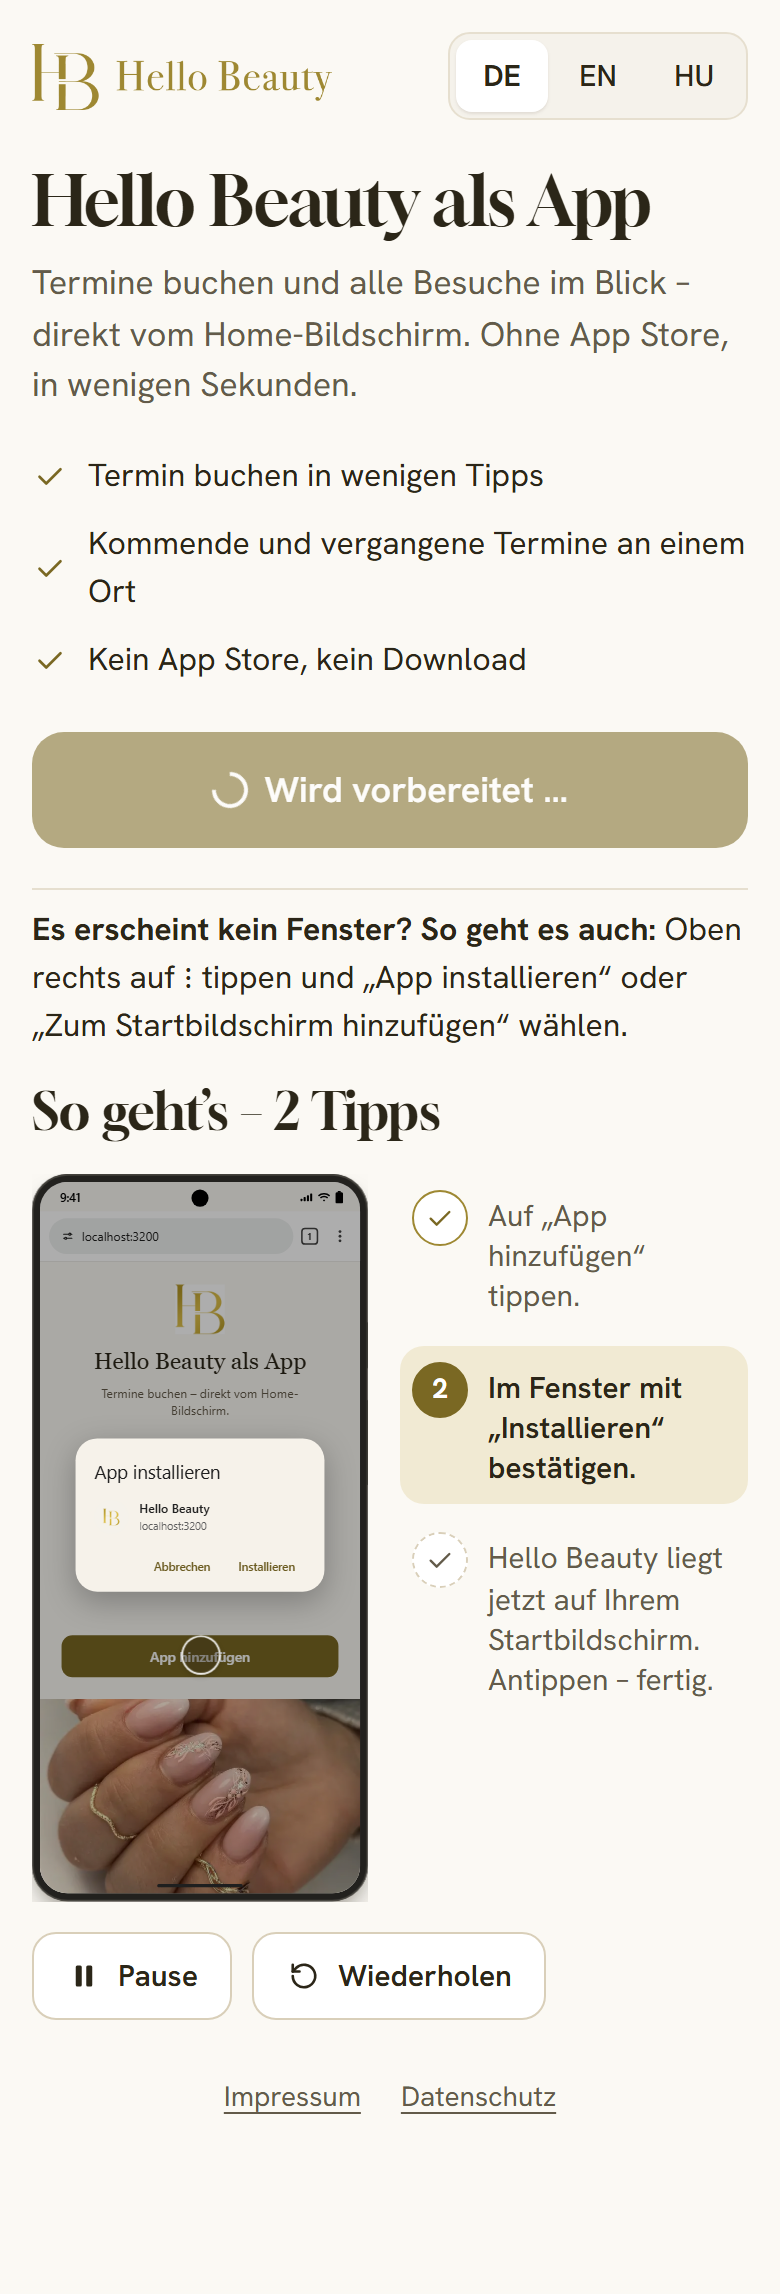
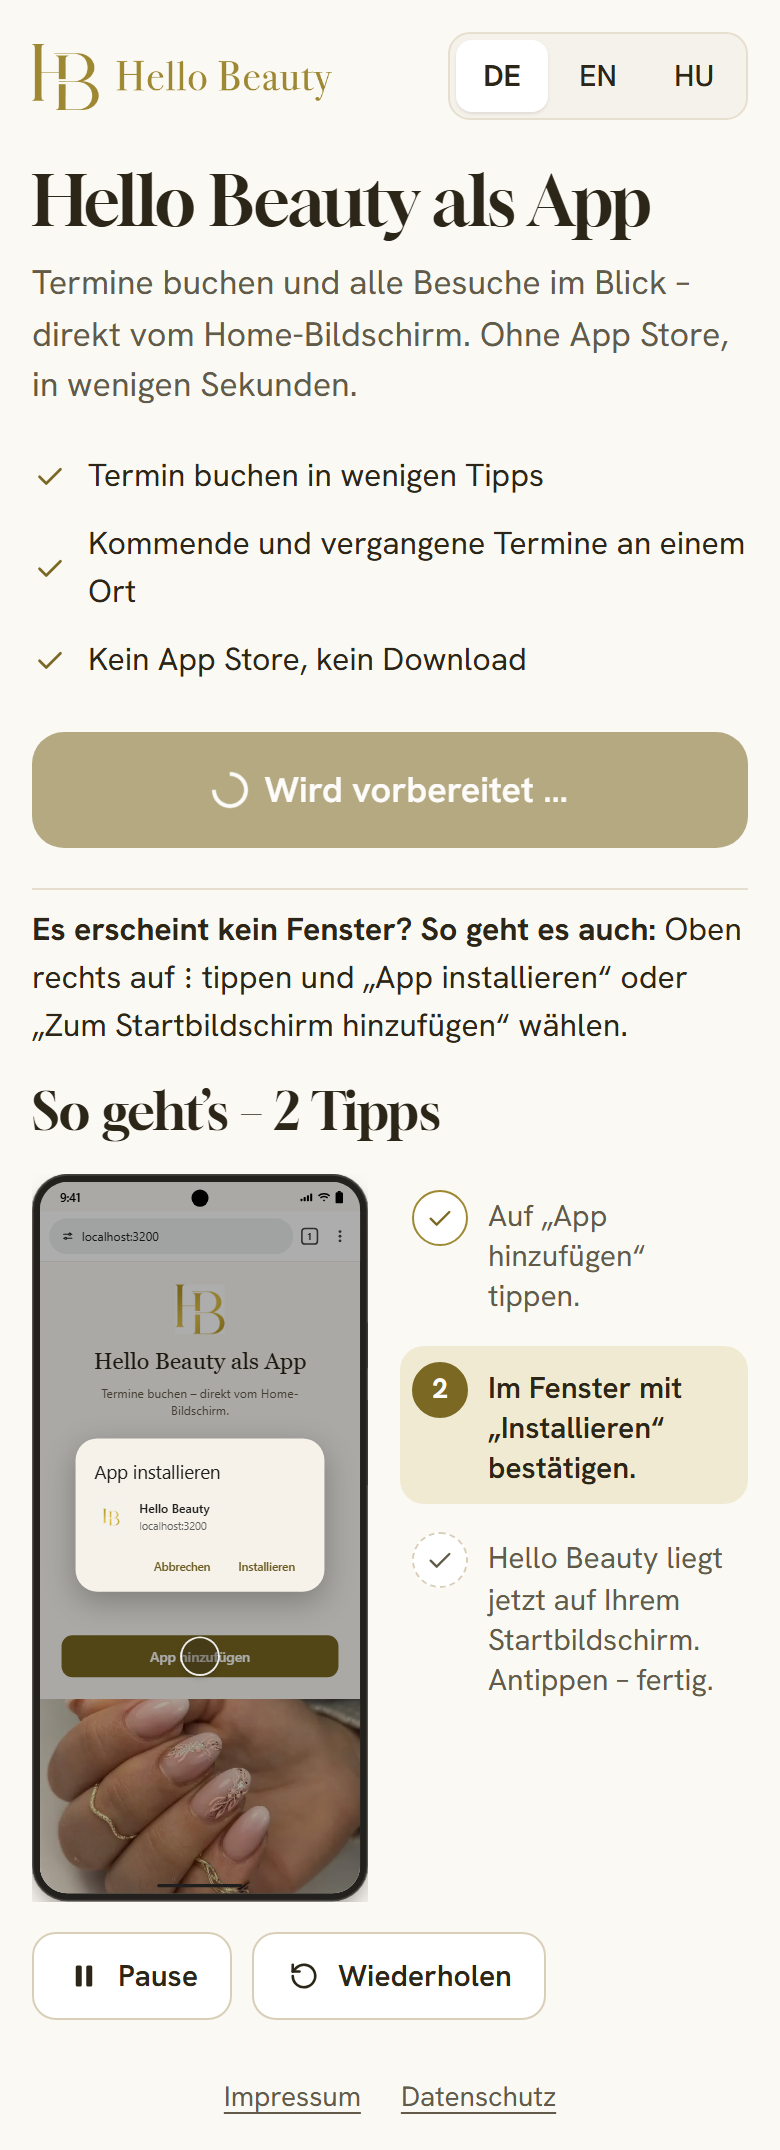
Vorführmodus kompakter, Pfeil unter der Anleitung, README

diff --git a/src/components/install/install.module.css b/src/components/install/install.module.css
@@ -172,7 +172,7 @@
 .showMain {
   flex: 1;
   display: grid;
-  grid-template-columns: minmax(320px, 0.9fr) 1.6fr;
+  grid-template-columns: minmax(300px, 0.75fr) 2fr;
   gap: 48px;
   align-items: center;
   padding: 24px 0;
@@ -196,8 +196,9 @@
 .qrCard {
   margin: 12px 0 0;
   display: flex;
-  gap: 20px;
-  align-items: center;
+  flex-direction: column;
+  gap: 14px;
+  align-items: flex-start;
   padding: 18px;
   border-radius: var(--r-xl);
   background: var(--bg-elev);
@@ -207,8 +208,7 @@
 }
 .qrCard figcaption {
   display: grid;
-  gap: 6px;
-  max-width: 230px;
+  gap: 4px;
 }
 .qrCard .url {
   word-break: normal;
@@ -217,13 +217,12 @@
 .showPhones {
   display: grid;
   grid-template-columns: 1fr 1fr;
-  gap: 32px;
+  gap: 28px;
   align-items: start;
 }
 .showCol {
   display: grid;
   gap: 8px;
-  justify-items: center;
 }
 .showLabel {
   font-size: 0.8125rem;
@@ -236,10 +235,6 @@
 @media (max-width: 1100px) {
   .showMain {
     grid-template-columns: 1fr;
-  }
-  .qrCard {
-    flex-direction: column;
-    align-items: flex-start;
   }
 }
 @media (max-width: 640px) {

diff --git a/src/components/install/install-page.tsx b/src/components/install/install-page.tsx
@@ -259,11 +259,11 @@ function DesktopShow({ host }: { host: string }) {
         <section className={st.showPhones} aria-label={t.install.guide.mockupLabel}>
           <div className={st.showCol}>
             <p className={st.showLabel}>{t.install.desktop.iphone}</p>
-            <Guide kind="ios" host={host} ios26 width={250} show />
+            <Guide kind="ios" host={host} ios26 width={215} show />
           </div>
           <div className={st.showCol}>
             <p className={st.showLabel}>{t.install.desktop.android}</p>
-            <Guide kind="android" host={host} width={250} show />
+            <Guide kind="android" host={host} width={215} show />
           </div>
         </section>
       </main>

diff --git a/src/components/install/guide.module.css b/src/components/install/guide.module.css
@@ -97,12 +97,10 @@
 
 /* Vorführmodus (Desktop): Handy oben, Schritte darunter */
 .show .stage {
-  grid-template-columns: 1fr;
-  justify-items: center;
+  align-items: center;
 }
-.show .steps {
-  width: 100%;
-  max-width: 340px;
+.show .stepBtn {
+  font-size: 0.875rem;
 }
 .show .stepBtn {
   cursor: default;

diff --git a/README.md b/README.md
@@ -1,0 +1,45 @@
+# Hello Beauty – Kundenportal (PWA)
+
+Installierbare Web-App für Kundinnen von Hello Beauty, Wien. Kein App Store: QR-Code scannen → `/installieren` → App auf dem Home-Bildschirm.
+Next.js 16 (App Router), TypeScript strict, DE/EN/HU, hell/dunkel. Teil 1: Oberfläche mit Mock-Daten; Teil 2: Supabase-Adapter.
+
+## Starten
+
+Node 22 (`.nvmrc`). Befehle identisch in PowerShell und macOS-Terminal:
+
+```sh
+npm ci                 # .npmrc: ignore-scripts, save-exact, Cooldown
+npm run dev            # http://localhost:3000
+```
+
+Mit Demo-Button „Als Demo-Kundin ansehen“:
+
+```sh
+# PowerShell
+$env:NEXT_PUBLIC_DEMO_MODE="true"; npm run dev
+# macOS
+NEXT_PUBLIC_DEMO_MODE=true npm run dev
+```
+
+Seiten: `/installieren` (Ziel des QR-Codes), `/qr` (druckbar), `/app` (die App), `/offline`.
+Vorführung am Laptop: `/installieren` im Desktop-Browser zeigt QR + iOS- und Android-Animation in Schleife.
+Zum Testen anderer Geräte am Laptop: `/installieren?p=ios`, `?p=ios-legacy`, `?p=android`, `?p=inapp`, `?p=desktop`.
+
+## Prüfen
+
+```sh
+npm run typecheck && npm run lint && npm run build
+npx --no-install playwright install chromium   # einmalig
+npm test                                       # baut, startet Port 3200, 18 Tests, Screenshots → docs/screenshots
+npm run check:manifest -- http://localhost:3200
+```
+
+## Aufbau
+
+- `src/lib/data` – `DataAdapter` (Schnittstelle) + `mock/` (localStorage, Demodaten aus dem CRM). Zugriff nur über `getData()`.
+- `src/lib/auth` – `AuthAdapter` (6-stelliger E-Mail-Code, keine Magic Links) + Mock. Zugriff nur über `getAuth()`.
+- `src/components/install` – Erkennung, Zeitleisten und gezeichnete iPhone-/Android-Mockups.
+- `public/sw.js` – Service Worker: nur statische Dateien + Offline-Seite, nie Seiten oder Daten.
+- `supabase/migrations` – leer, für Teil 2. Alle späteren Variablen: `.env.example`.
+
+Bericht Teil 1: `docs/teil1-bericht.md`.
